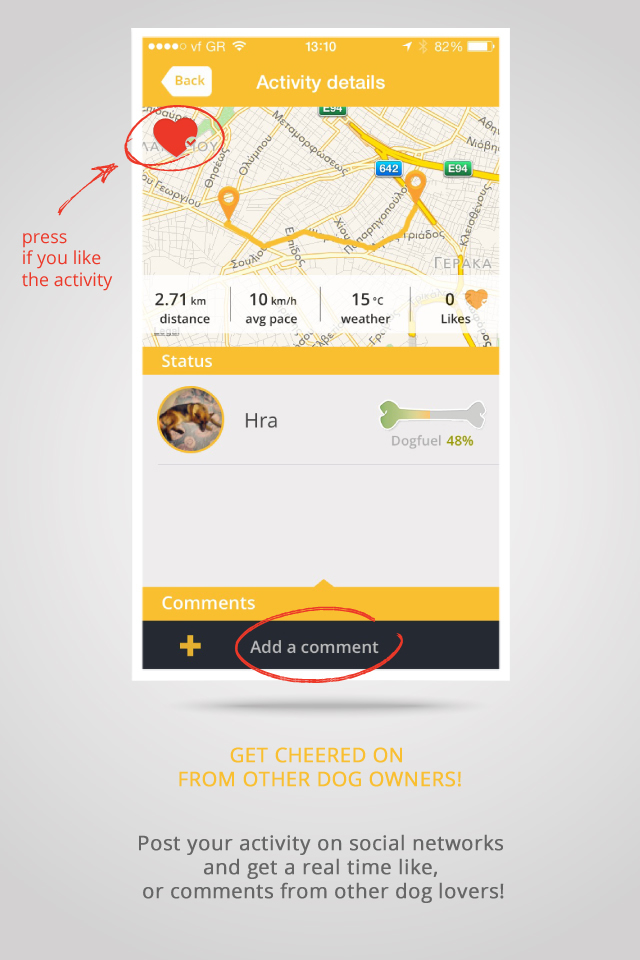
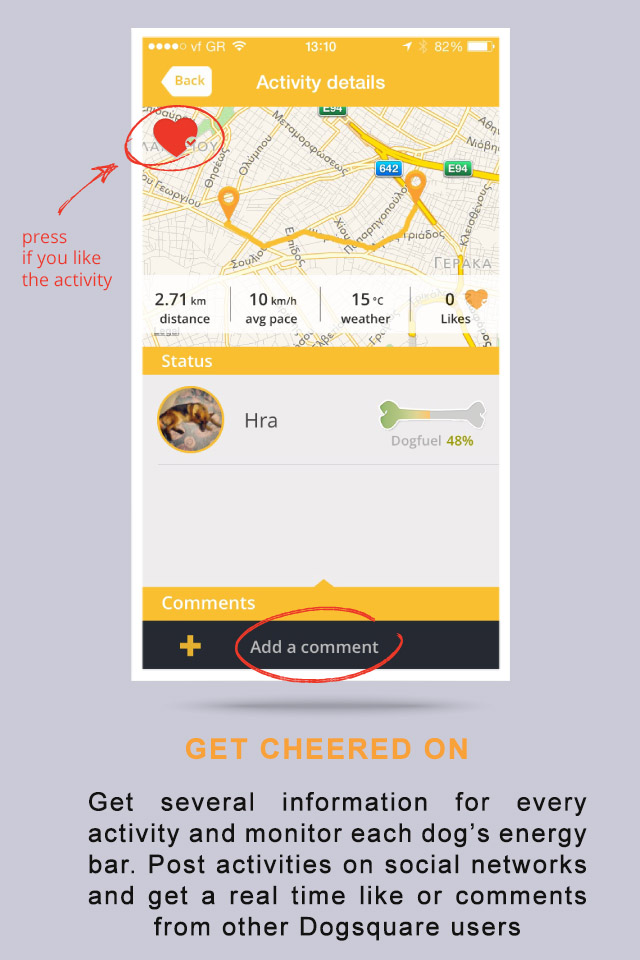
Post-release fixes 21

Changed region(s): [[0.0, 0.1875, 1.0, 1.0], [0.1562, 0.1562, 0.1875, 0.1875]]

diff --git a/Resources/ui/iphone/tour.js b/Resources/ui/iphone/tour.js
@@ -36,12 +36,12 @@ function openTourView(){
 	});
 	
 	//tour content
-	var view1 = Ti.UI.createImageView({backgroundColor:'white',image:IPHONE5? IMAGE_PATH+'tour/1-568h@2x.jpg' : IMAGE_PATH+'tour/1.jpg' });
-	var view2 = Ti.UI.createImageView({backgroundColor:'white',image:IPHONE5? IMAGE_PATH+'tour/2-568h@2x.jpg' : IMAGE_PATH+'tour/2.jpg' });
-	var view3 = Ti.UI.createImageView({backgroundColor:'white',image:IPHONE5? IMAGE_PATH+'tour/3-568h@2x.jpg' : IMAGE_PATH+'tour/3.jpg' });
-	var view4 = Ti.UI.createImageView({backgroundColor:'white',image:IPHONE5? IMAGE_PATH+'tour/4-568h@2x.jpg' : IMAGE_PATH+'tour/4.jpg' });
-	var view5 = Ti.UI.createImageView({backgroundColor:'white',image:IPHONE5? IMAGE_PATH+'tour/5-568h@2x.jpg' : IMAGE_PATH+'tour/5.jpg' });
-	var view6 = Ti.UI.createImageView({backgroundColor:'white',image:IPHONE5? IMAGE_PATH+'tour/6-568h@2x.jpg' : IMAGE_PATH+'tour/6.jpg' });
+	var view1 = Ti.UI.createImageView({backgroundColor:'#cbcad8',image:IPHONE5? IMAGE_PATH+'tour/1-568h@2x.jpg' : IMAGE_PATH+'tour/1.jpg' });
+	var view2 = Ti.UI.createImageView({backgroundColor:'#cbcad8',image:IPHONE5? IMAGE_PATH+'tour/2-568h@2x.jpg' : IMAGE_PATH+'tour/2.jpg' });
+	var view3 = Ti.UI.createImageView({backgroundColor:'#cbcad8',image:IPHONE5? IMAGE_PATH+'tour/3-568h@2x.jpg' : IMAGE_PATH+'tour/3.jpg' });
+	var view4 = Ti.UI.createImageView({backgroundColor:'#cbcad8',image:IPHONE5? IMAGE_PATH+'tour/4-568h@2x.jpg' : IMAGE_PATH+'tour/4.jpg' });
+	var view5 = Ti.UI.createImageView({backgroundColor:'#cbcad8',image:IPHONE5? IMAGE_PATH+'tour/5-568h@2x.jpg' : IMAGE_PATH+'tour/5.jpg' });
+	var view6 = Ti.UI.createImageView({backgroundColor:'#cbcad8',image:IPHONE5? IMAGE_PATH+'tour/6-568h@2x.jpg' : IMAGE_PATH+'tour/6.jpg' });
 	
 	var scrollableView = Ti.UI.createScrollableView({
 	  views:[view1,view2,view3,view4,view5,view6],

diff --git a/Resources/ui/iphone/menu_left.js b/Resources/ui/iphone/menu_left.js
@@ -761,6 +761,11 @@ function clearSearchBackground(){
 function updateLeftMenuCounts(cFollowers, cInbox, cNotifications){
 	Ti.API.info('updateLeftMenuCounts() called with '+cFollowers,' followers '+cInbox+' inbox '+cNotifications+' notifications');
 	
+	//refresh user thumbnail if it's remote image
+	if(userObject != null && userObject.thumb_path && userObject.thumb_path.substring(0,4) == 'http'){
+		leftTableView.data[0].rows[0].children[0].image = getUserPhoto(userObject.thumb_path);
+	}
+	
 	var notifBackground = leftTableView.data[0].rows[5].children[0];
 	var notifLabel = leftTableView.data[0].rows[5].children[0].children[0];
 	var inboxBackground = leftTableView.data[0].rows[4].children[0];

diff --git a/Resources/ui/iphone/login.js b/Resources/ui/iphone/login.js
@@ -326,7 +326,7 @@ function checkLoginCredentials(lObj){
 				dogObj.name = jsonData.data.dogs[i].Dog.name;
 				dogObj.dog_id = jsonData.data.dogs[i].Dog.id;
 				dogObj.photo_filename = jsonData.data.dogs[i].Dog.photo;
-				dogObj.breed_id = 1;
+				dogObj.breed_id = jsonData.data.dogs[i].Dog.breed_id;
 				dogObj.breed = jsonData.data.dogs[i].Dog.dog_breed;
 				dogObj.age = jsonData.data.dogs[i].Dog.age;
 				dogObj.gender = jsonData.data.dogs[i].Dog.gender;

diff --git a/Resources/ui/iphone/add_dog.js b/Resources/ui/iphone/add_dog.js
@@ -226,11 +226,11 @@ function builAddDogView(windowMode){
 		
 		//Age textfield label
 		addDogFieldAgeHintTextLabel = Ti.UI.createLabel({
-			text:'Age*',
+			text:'Age (years only)*',
 			color:'999999',
 			textAlign:'left',
 			left:4,
-			width:80,
+			width:150,
 			height:30,
 			font:{fontSize:17, fontWeight:'regular', fontFamily:'Open Sans'}
 		});

diff --git a/Resources/ui/iphone/map.js b/Resources/ui/iphone/map.js
@@ -58,9 +58,9 @@ function updateLocationOnMap(){
 		mapRegion = {
 			latitude: e.coords.latitude,
 			longitude: e.coords.longitude,
-			animate:true
-			//latitudeDelta:0.003,
-			//longitudeDelta:0.003
+			animate:true,
+			latitudeDelta:0.003,
+			longitudeDelta:0.003
 		};
 		mapview.setLocation(mapRegion); 
 		

diff --git a/Resources/ui/iphone/place_view.js b/Resources/ui/iphone/place_view.js
@@ -1176,7 +1176,7 @@ function updateCheckinPlace(placeObj, checkins, likes, photos){
 	}
 	
 	//Url
-	if(placeObj.url != null && placeObj.url != ''){
+	if(placeObj.url != null && placeObj.url != 'http' && placeObj.url != ''){
 		checkinPlaceUrlLabel.place_url = placeObj.url;
 		checkinPlaceUrlLabel.show();
 	}

diff --git a/Resources/ui/iphone/add_place.js b/Resources/ui/iphone/add_place.js
@@ -469,6 +469,7 @@ function doSavePlaceOnline(pObj){
 			
 			placeCheckinWindow.setLeftNavButton(placeCheckinBackButton);
 			placeCheckinBackButton.addEventListener("click", function() {
+				getNearbyPlaces();
 			    navController.close(placeCheckinWindow);
 			});
 			

diff --git a/Resources/ui/iphone/checkin.js b/Resources/ui/iphone/checkin.js
@@ -240,6 +240,8 @@ function populatecheckinPlacesTableView(places){
 }
 
 function handleCheckinPlacesTableViewRow(e){
+	Ti.API.info('nearme table clicked!');
+	
 	var placeId = e.row.placeId;
 	var placeTitle = e.row.placeName;
 	var categoryId = e.row.categoryId;

diff --git a/Resources/common/utils.js b/Resources/common/utils.js
@@ -107,7 +107,7 @@ function getUserPhoto(path){
 	
 	if(path != null){
 		if(path.substring(0,4) == 'http'){
-			photo = path;
+			photo = path+'&now='+new Date().getTime();
 		} else {
 			photo = REMOTE_USER_IMAGES+path;
 		}
